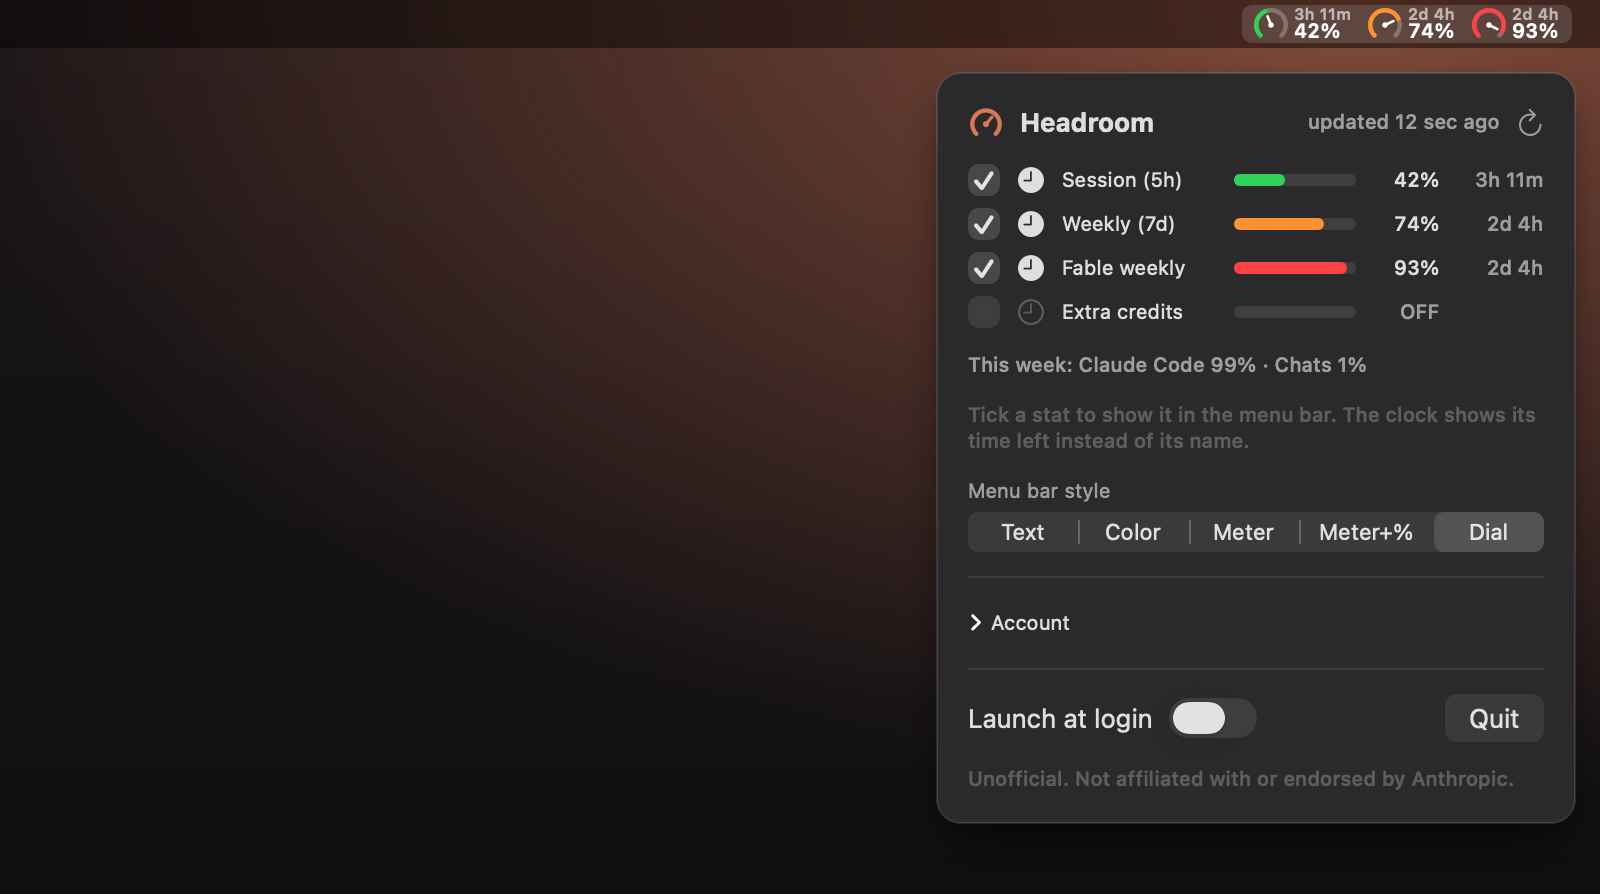
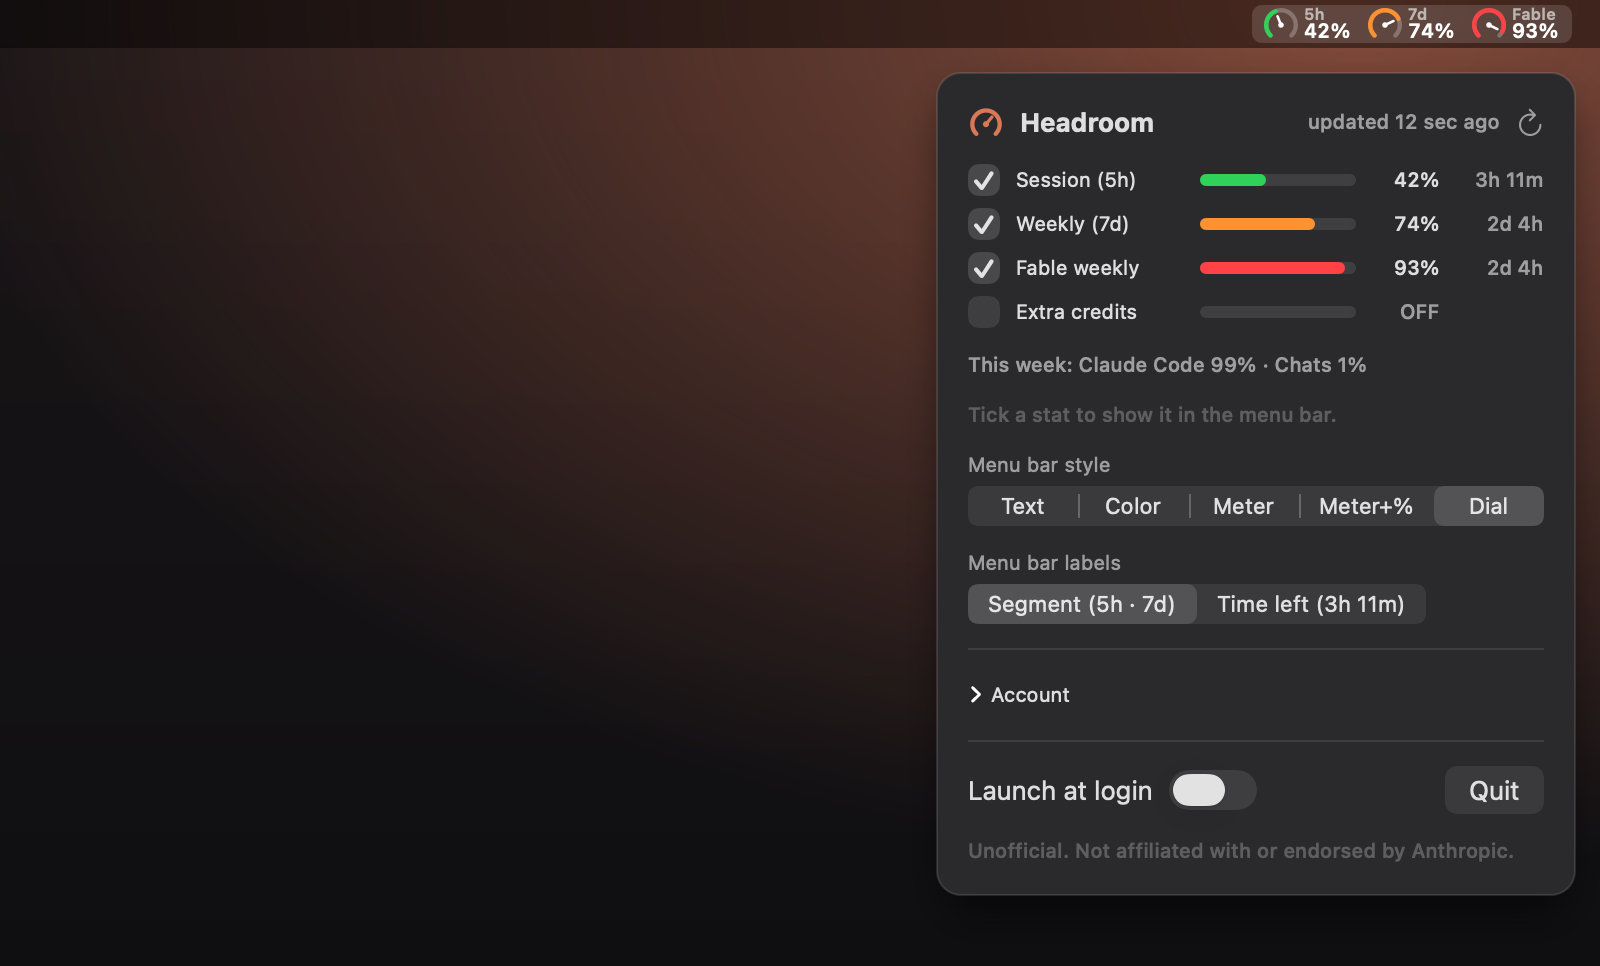
Headroom 1.0.3: Segment / Time left switch for menu bar labels
- One "Menu bar labels" switch in the popup: Segment (5h, 7d, Fable;
  the default) or Time left (3h 11m), for every pinned stat. Replaces
  the per-row clock icons, which didn't read as toggles.
- Site and README images regenerated; the render tool sets the label
  mode explicitly (it keeps its own saved prefs).

diff --git a/Sources/Headroom/PopoverView.swift b/Sources/Headroom/PopoverView.swift
@@ -31,9 +31,6 @@ struct PopoverView: View {
 							StatRow(stat: stat, pinned: Binding(
 								get: { usage.isPinned(stat.id) },
 								set: { usage.setPinned(stat.id, $0) }
-							), timeLeft: Binding(
-								get: { usage.showsTimeLeft(stat.id) },
-								set: { usage.setShowsTimeLeft(stat.id, $0) }
 							))
 						}
 					}
@@ -41,15 +38,24 @@ struct PopoverView: View {
 				if let shares = breakdownText {
 					Text(shares).font(.caption2).foregroundStyle(.secondary)
 				}
-				Text("Tick a stat to show it in the menu bar. The clock shows its time left instead of its name.")
+				Text("Tick a stat to show it in the menu bar.")
 					.font(.caption2).foregroundStyle(.tertiary)
-					.fixedSize(horizontal: false, vertical: true)
 			}
 
 			VStack(alignment: .leading, spacing: 4) {
 				Text("Menu bar style").font(.caption).foregroundStyle(.secondary)
 				Picker("Menu bar style", selection: $usage.barStyle) {
 					ForEach(BarStyle.allCases) { Text($0.title).tag($0) }
+				}
+				.pickerStyle(.segmented)
+				.labelsHidden()
+				.controlSize(.small)
+			}
+
+			VStack(alignment: .leading, spacing: 4) {
+				Text("Menu bar labels").font(.caption).foregroundStyle(.secondary)
+				Picker("Menu bar labels", selection: $usage.labelMode) {
+					ForEach(LabelMode.allCases) { Text($0.title).tag($0) }
 				}
 				.pickerStyle(.segmented)
 				.labelsHidden()
@@ -136,7 +142,6 @@ private struct AccountView: View {
 private struct StatRow: View {
 	let stat: UsageStat
 	@Binding var pinned: Bool
-	@Binding var timeLeft: Bool
 
 	var body: some View {
 		HStack(spacing: 8) {
@@ -144,15 +149,7 @@ private struct StatRow: View {
 				.toggleStyle(.checkbox)
 				.labelsHidden()
 				.help("Show in menu bar")
-			// menubar label: time left (on) or the stat's name (off)
-			Button { timeLeft.toggle() } label: {
-				Image(systemName: timeLeft && stat.resetsAt != nil ? "clock.fill" : "clock")
-			}
-			.buttonStyle(.borderless)
-			.foregroundStyle(timeLeft && stat.resetsAt != nil ? .primary : .tertiary)
-			.disabled(stat.resetsAt == nil)
-			.help(timeLeft ? "Menu bar shows the time left. Click to show the name instead." : "Menu bar shows the name. Click to show the time left instead.")
-			Text(stat.label).font(.caption).lineLimit(1).frame(width: 78, alignment: .leading)
+			Text(stat.label).font(.caption).lineLimit(1).frame(width: 84, alignment: .leading)
 			Meter(percent: stat.percent, color: stat.dimmed ? .secondary : Color(nsColor: ClaudeUsage.severityColor(stat.percent)))
 			Text(stat.value).font(.caption.monospacedDigit()).bold()
 				.foregroundStyle(stat.dimmed ? .secondary : .primary)

diff --git a/Sources/Headroom/UsageStore.swift b/Sources/Headroom/UsageStore.swift
@@ -15,6 +15,18 @@ enum BarStyle: String, CaseIterable, Identifiable {
 	}
 }
 
+// What labels each pinned stat in the menubar.
+enum LabelMode: String, CaseIterable, Identifiable {
+	case segment, timeLeft
+	var id: String { rawValue }
+	var title: String {
+		switch self {
+		case .segment: "Segment (5h · 7d)"
+		case .timeLeft: "Time left (3h 11m)"
+		}
+	}
+}
+
 // Polls the Claude usage endpoint and holds the menubar prefs (which stats are
 // pinned, and how they're drawn). Prefs live in UserDefaults, not config.json —
 // they're companion-only, like suitePath.
@@ -31,10 +43,8 @@ final class UsageStore: ObservableObject {
 	@Published var barStyle: BarStyle {
 		didSet { UserDefaults.standard.set(barStyle.rawValue, forKey: "barStyle") }
 	}
-	// Stats labelled by name in the menubar. Every other stat shows its time
-	// left ("3h 11m") instead; storing the opt-outs makes that the default.
-	@Published var nameLabels: [String] {
-		didSet { UserDefaults.standard.set(nameLabels, forKey: "nameLabels") }
+	@Published var labelMode: LabelMode {
+		didSet { UserDefaults.standard.set(labelMode.rawValue, forKey: "labelMode") }
 	}
 
 	private var timer: Timer?
@@ -42,23 +52,18 @@ final class UsageStore: ObservableObject {
 	init() {
 		pinned = UserDefaults.standard.stringArray(forKey: "pinnedStats") ?? [] // nothing pinned: the menubar shows the logo
 		barStyle = BarStyle(rawValue: UserDefaults.standard.string(forKey: "barStyle") ?? "") ?? .meterText
-		nameLabels = UserDefaults.standard.stringArray(forKey: "nameLabels") ?? []
+		labelMode = LabelMode(rawValue: UserDefaults.standard.string(forKey: "labelMode") ?? "") ?? .segment
 	}
 
 	var stats: [UsageStat] { snapshot?.stats ?? [] }
-	// pinned stats as the menubar labels them: time left, or name
+	// pinned stats as the menubar labels them: the segment ("5h"), or the time left ("3h 11m")
 	var pinnedStats: [UsageStat] {
 		stats.filter { pinned.contains($0.id) }.map { s in
-			guard showsTimeLeft(s.id), s.resetsAt != nil else { return s }
+			guard labelMode == .timeLeft, s.resetsAt != nil else { return s }
 			var s = s
 			s.short = ClaudeUsage.formatReset(s.resetsAt)
 			return s
 		}
-	}
-
-	func showsTimeLeft(_ id: String) -> Bool { !nameLabels.contains(id) }
-	func setShowsTimeLeft(_ id: String, _ on: Bool) {
-		if on { nameLabels.removeAll { $0 == id } } else if !nameLabels.contains(id) { nameLabels.append(id) }
 	}
 	// last good data is still on screen, but the latest fetch failed
 	var isStale: Bool { snapshot != nil && error != nil }

diff --git a/docs/index.html b/docs/index.html
@@ -24,7 +24,7 @@
   .fine { color: var(--muted); font-size: 0.9rem; margin: 14px 0 0; }
   img.shot { display: block; width: 100%; height: auto; border-radius: 16px; border: 1px solid var(--line); margin: 48px 0 0; }
   h2 { font-size: 1.4rem; margin: 56px 0 16px; }
-  img.styles { width: 100%; max-width: 360px; height: auto; }
+  img.styles { width: 100%; max-width: 318px; height: auto; }
   ol { display: inline-block; text-align: left; padding-left: 1.2em; margin: 0; }
   li { margin: 0 0 8px; }
   footer { padding: 40px 16px 56px; color: var(--muted); font-size: 0.85rem; }
@@ -90,10 +90,10 @@
   <a class="btn" href="https://github.com/CatalystMonish/headroom/releases/latest/download/Headroom.dmg">Download for macOS</a>
   <p class="fine">Free &amp; open source · macOS 14+ · <a href="https://github.com/CatalystMonish/headroom">GitHub</a></p>
 
-  <img class="shot" src="preview.png" width="1600" height="894" alt="Headroom showing session, weekly and Fable limits in the menu bar and its popup.">
+  <img class="shot" src="preview.png" width="1600" height="966" alt="Headroom showing session, weekly and Fable limits in the menu bar and its popup.">
 
   <h2>Pick a style</h2>
-  <img class="styles" src="bar-styles.png" width="720" height="400" alt="The five menu bar styles: text, color, meter, meter with percent, and dial.">
+  <img class="styles" src="bar-styles.png" width="636" height="400" alt="The five menu bar styles: text, color, meter, meter with percent, and dial.">
 
   <h2>Get started</h2>
   <ol>

diff --git a/scripts/screens/main.swift b/scripts/screens/main.swift
@@ -28,12 +28,15 @@ MainActor.assumeIsolated {
 		let b = item.button!
 		b.appearance = NSAppearance(named: mode)
 		// the menubar gets its stats from the store, exactly as the app does
-		// (pinned ones only, labelled with their time left by default)
+		// (pinned ones only, labelled per the label mode)
 		let bar = UsageStore()
 		bar.snapshot = snap
 		bar.pinned = pins
+		bar.labelMode = .segment // explicit: the render tool keeps its own saved prefs
 		var cases: [(String, [UsageStat], BarStyle)] = [("logo", [], .meterText)]
 		for s in BarStyle.allCases { cases.append((s.rawValue, bar.pinnedStats, s)) }
+		bar.labelMode = .timeLeft
+		cases.append(("meterText-timeleft", bar.pinnedStats, .meterText))
 		for (label, stats, style) in cases {
 			for _ in 0..<2 { // first pass warms up the button
 				MenuBarRenderer.apply(to: b, stats: stats, style: style, warn: false, tooltip: "")
@@ -46,7 +49,7 @@ MainActor.assumeIsolated {
 
 		let usage = UsageStore()
 		usage.snapshot = snap; usage.lastUpdated = Date().addingTimeInterval(-12)
-		usage.pinned = pins; usage.barStyle = .dial
+		usage.labelMode = .segment; usage.pinned = pins; usage.barStyle = .dial
 		let host = NSHostingView(rootView: PopoverView().environmentObject(usage))
 		host.appearance = NSAppearance(named: mode)
 		let w = NSWindow(contentRect: NSRect(x: 0, y: 0, width: 320, height: 800), styleMask: [.borderless], backing: .buffered, defer: false)

diff --git a/README.md b/README.md
@@ -22,8 +22,8 @@ Free · open source (MIT) · signed & notarized · macOS 14+ · Apple Silicon & 
   green, then amber at 70%, then red at 90%.
 - **Pin any stat to the menu bar** with its checkbox. With nothing pinned, Headroom is
   just a small logo.
-- **Time left or name:** the clock next to each stat shows its time left (`3h 11m`) in
-  the menu bar instead of its name. On by default.
+- **Menu bar labels:** show each stat by its segment (`5h`, `7d`, `Fable`, the default) or by
+  its time left (`3h 11m`).
 - **Five styles:** Text, Color, Meter, Meter + %, and speedometer-style Dial.
 - **Reset countdowns**, plus this week's split by surface (Claude Code, Chats, …).
 - **Private:** no analytics, no servers. The only network requests go to
